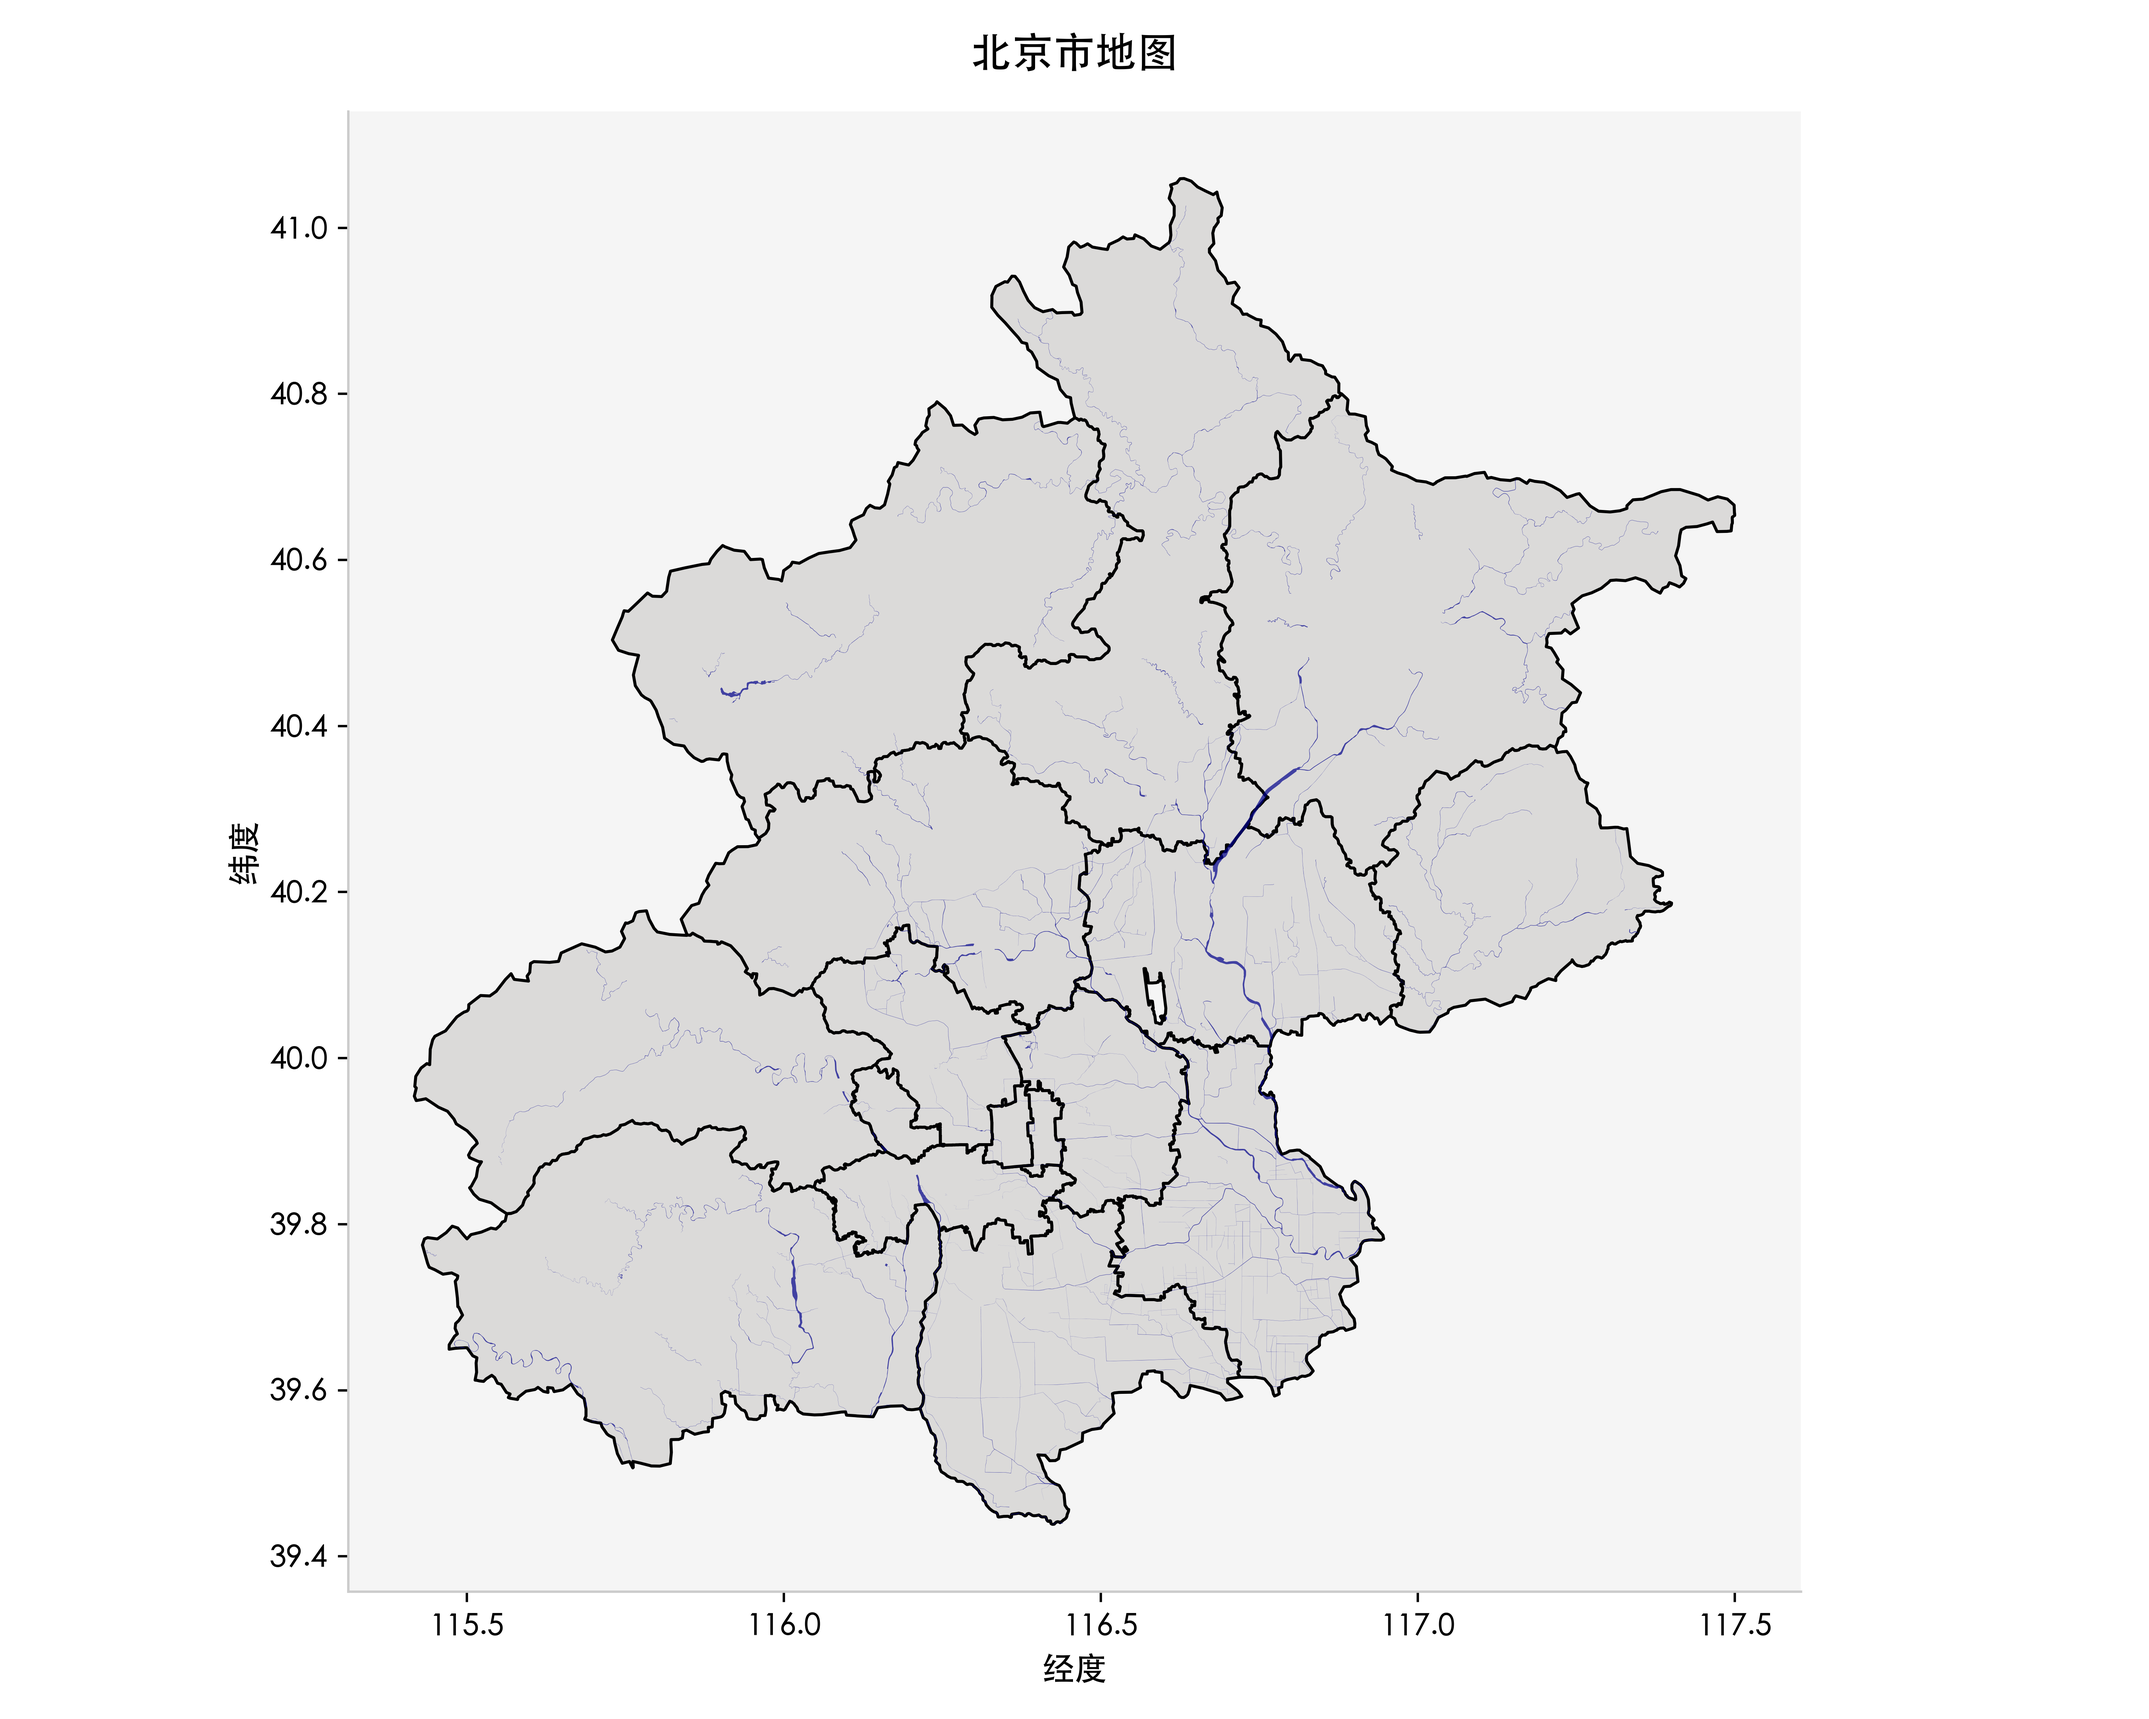
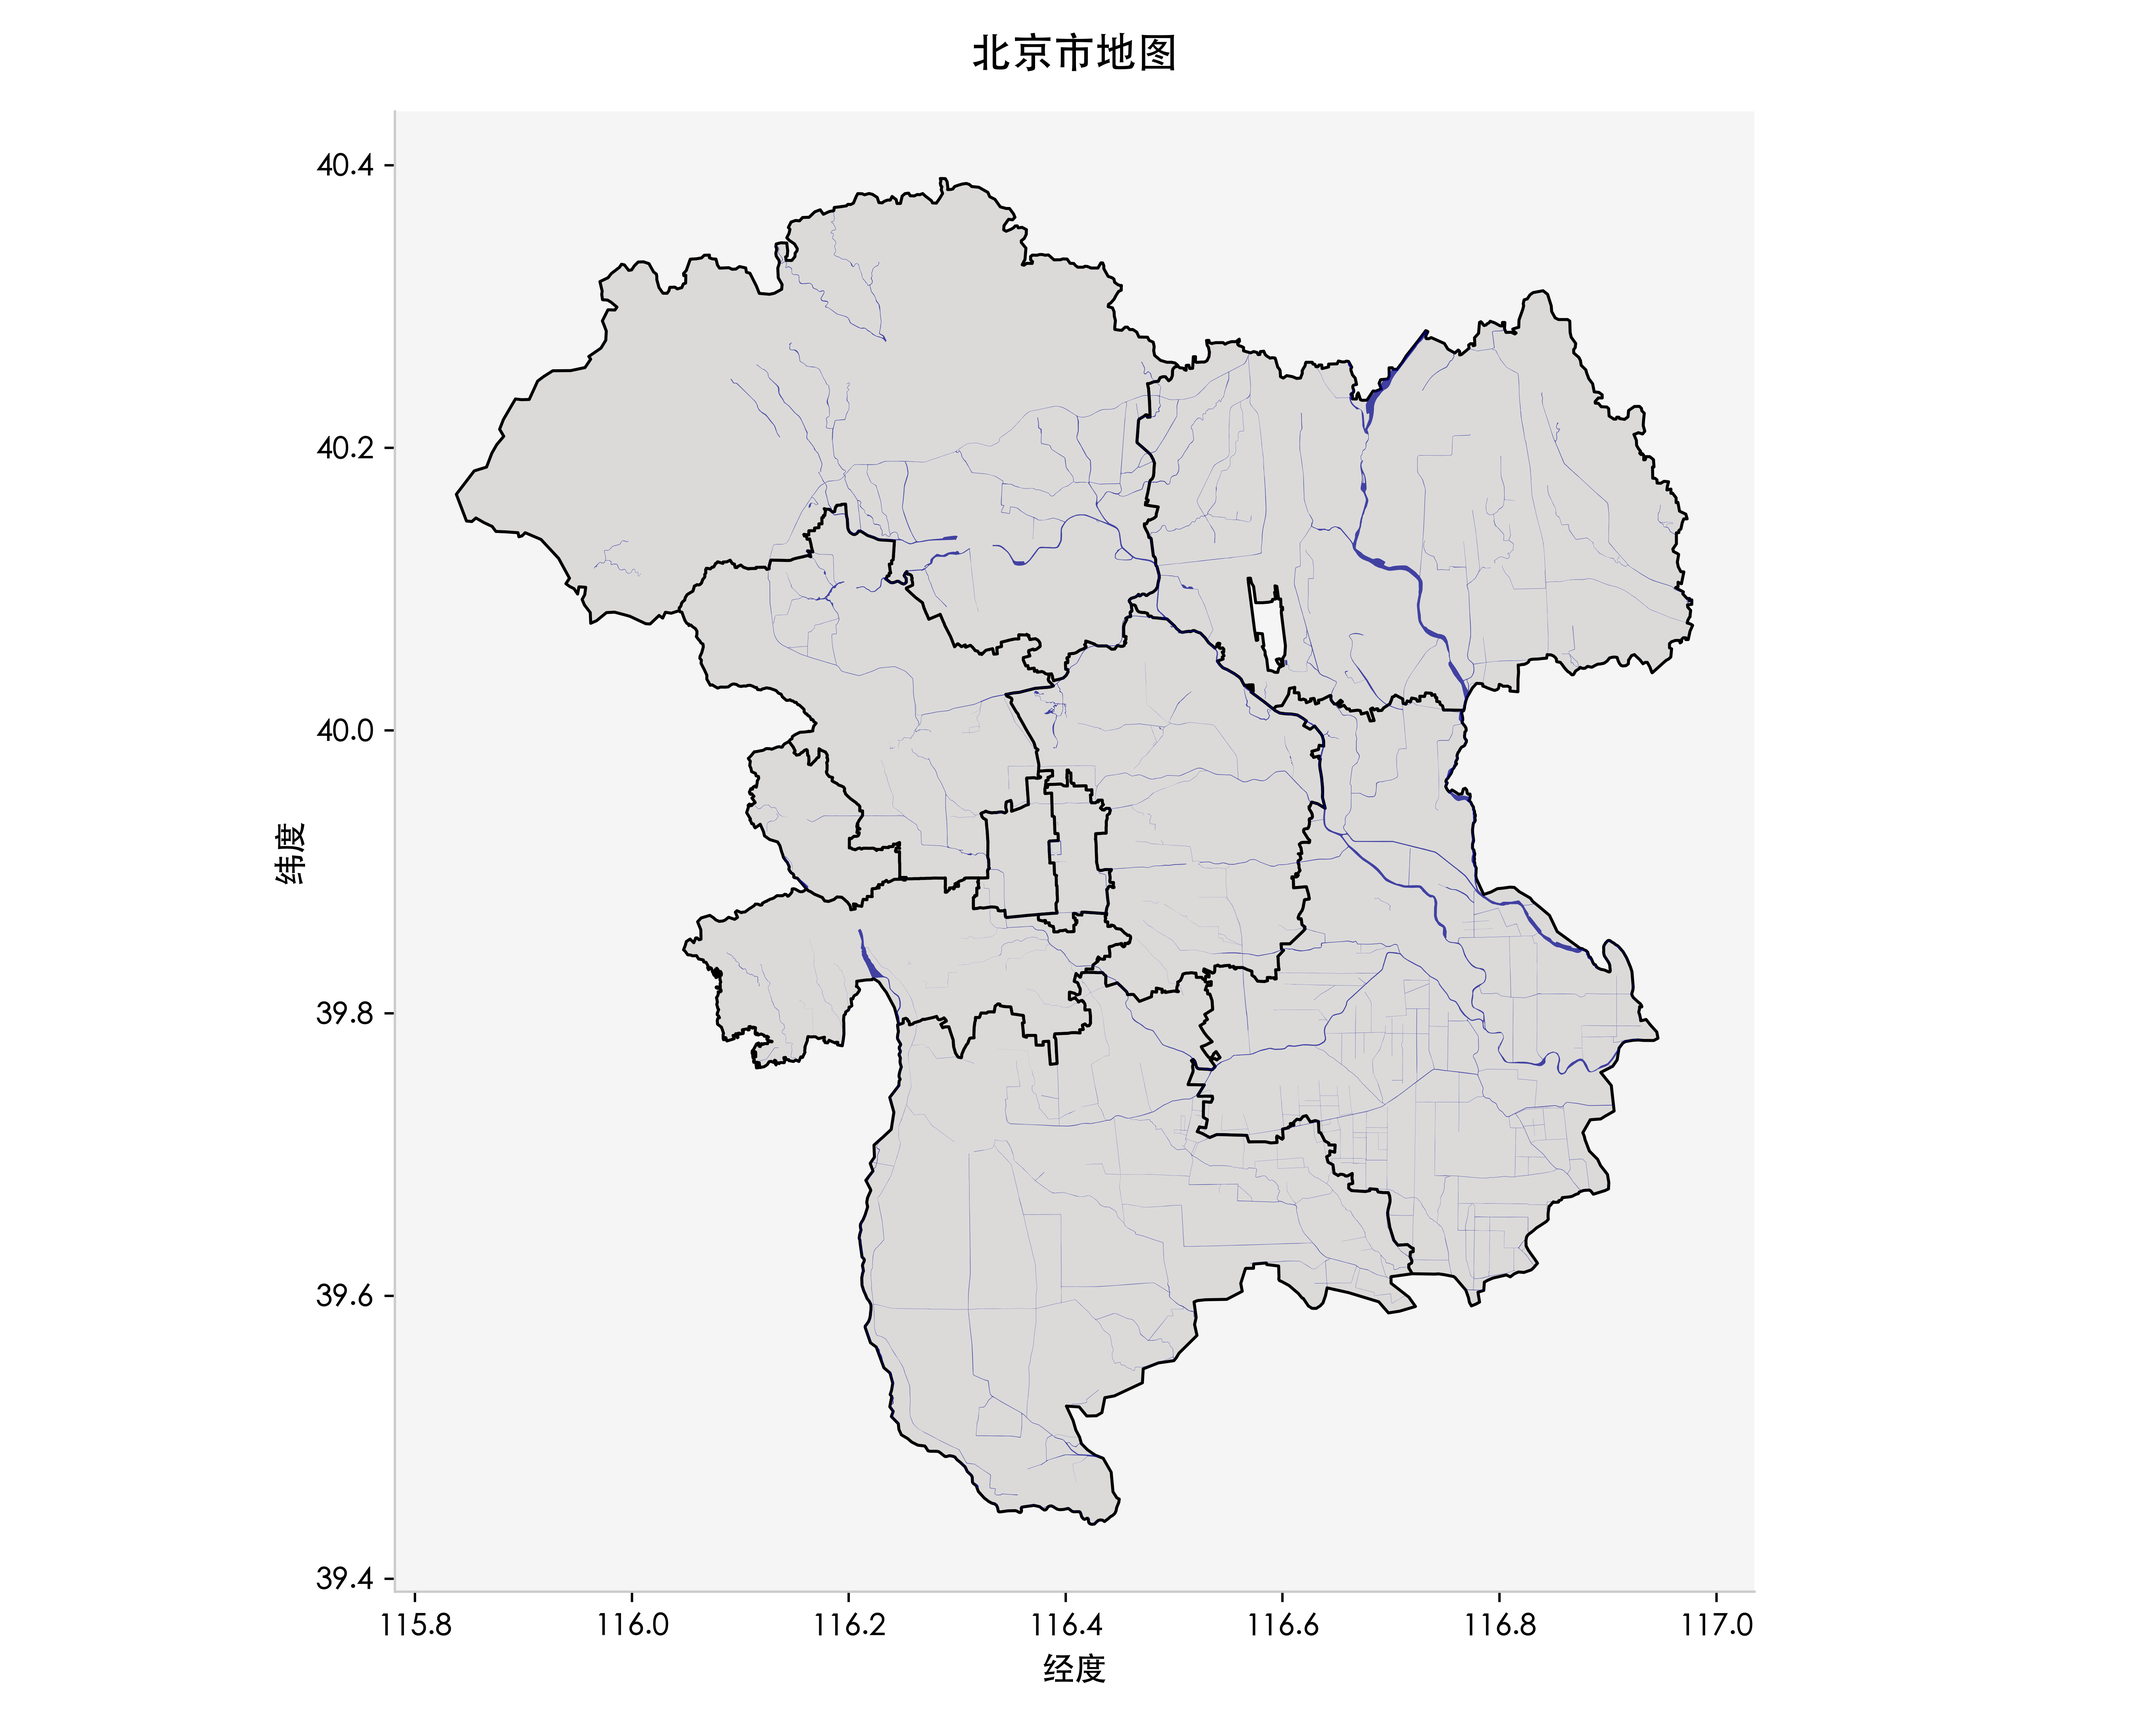
一点小改进

diff --git a/pages/数据分析.py b/pages/数据分析.py
@@ -9,10 +9,14 @@ st.markdown("## 住房与POI兴趣点分布地图")
 img = Image.open("./image/beijing_house_poi_map.png")
 st.image(img, caption="住房与POI兴趣点分布地图", use_container_width=True)
 
-st.markdown("## 北京房价分部地图")
+st.markdown("## 北京房价分布地图")
 # 显示图片
-img = Image.open("./image/beijing_house_price_map.png")
-st.image(img, caption="北京房价分部地图", use_container_width=True)
+img = Image.open("./image/beijing_house_price_map_with_basemap.png")
+st.image(img, caption="北京房价分布地图", use_container_width=True)
+
+st.markdown("## POI兴趣点邻近房价地图")
+img = Image.open("./image/beijing_poi_price_map.png")
+st.image(img, caption="POI兴趣点邻近房价地图", use_container_width=True)
 
 st.markdown("## 住房-POI兴趣点网络图")
 img = Image.open("./image/yeast_networkx.png")
